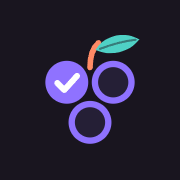
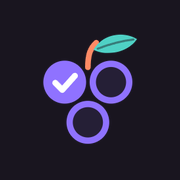
デザイン調整: アイコンとヘッダーロゴを新ロゴ（ぶどう）に差し替え

Changed region(s): [[0.2222, 0.1667, 0.7778, 0.8056]]

diff --git a/sw.js b/sw.js
@@ -1,4 +1,4 @@
-const CACHE = "task-app-v13";
+const CACHE = "task-app-v14";
 const ASSETS = [
   "./",
   "./index.html",
